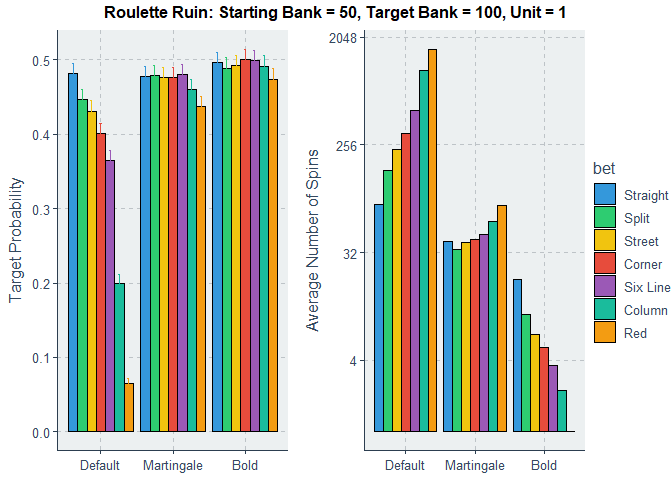
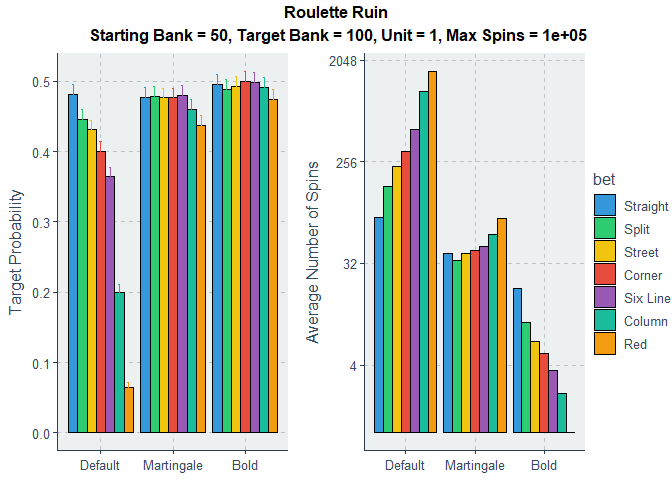
graph changes

diff --git a/roulette_strategy.md b/roulette_strategy.md
@@ -3,7 +3,7 @@ Roulette Strategy
 Thanos Livanis
 13/12/2023
 
-**Analysis & simulation of *Gambler’s Ruin* problem in Roulette under
+**Analysis & simulation of *Gambler’s Ruin* problem in roulette under
 different betting strategies & circumstances**
 
 -   [Analysis](#analysis)
@@ -60,9 +60,8 @@ spin_wheel <- function(roulette, bet, nspins){
   
   spins = rbinom(nspins, 1, prop)
   
-  list(PnL = sum(ifelse(spins, payout, -1))) %>% bind_cols(params)
+  list(Yield = sum(ifelse(spins, payout, -1))/nspins) %>% bind_cols(params)
 }
-
 
 returns <- expand.grid(roulette = c("European", "American"),
                        bet = unique(roulette_table$bet),
@@ -74,21 +73,14 @@ returns <- expand.grid(roulette = c("European", "American"),
 ``` r
 ggthemr("flat")
 
-pl_density <- returns %>% filter(roulette == "European") %>%
-  ggplot(aes(x = PnL, color = bet)) +
-  geom_density(adjust = 2, linewidth = 1) + 
-  theme(legend.position="none") +
-  coord_cartesian(xlim = c(-500, 500)) 
-
-pl_box <- returns %>% filter(roulette == "European") %>%
-  ggplot(aes(x = bet, y = PnL, fill = bet)) +
+returns %>% filter(roulette == "European") %>%
+  ggplot(aes(x = bet, y = Yield, fill = bet)) +
   geom_boxplot() +
-  theme(axis.title.x=element_blank(), axis.text.x = element_text(angle = 90, vjust = 0.5, hjust = 1), 
-        legend.position="none") 
-
-pl <- ggarrange(pl_box, pl_density, nrow = 2, common.legend = F)
-annotate_figure(pl, top = text_grob("Profit & Loss distribution after 1000 European Roulette Spins", 
-                                    face = "bold", size = 12))
+  scale_y_continuous(breaks = seq(-0.5, 0.5, 0.1), labels = scales::percent_format(accuracy=1)) +
+  theme(axis.title.x = element_blank(), 
+        axis.text.x = element_text(angle = 90, vjust = 0.5, hjust = 1,size = 12), 
+        legend.position="none") +
+  labs(title = "Yield distribution ~ 1000 European Roulette Spins")
 ```
 
 ![](roulette_strategy_files/figure-gfm/pnl_distribution-1.png)<!-- -->
@@ -101,8 +93,7 @@ $M > \\frac{N}{\\text{payout} + 1}$
 Profit Probability = *P*(*X*≥⌈*M*⌉) = pbinom(⌊*M*⌋,Spins,*p*,lower.tail = F)
 
 It is easier to make a profit from Straight & Split bets than betting on
-Red, due to higher variance. There is more inherent randomness
-associated with unlikely events.
+Red, due to higher variance.
 
 ``` r
 prop_profit <- function(roulette, bet, nspins) {
@@ -411,7 +402,7 @@ of trials; otherwise, the law of large numbers leads us to ruin. The
 best strategy in this case is the bold strategy.
 
 ``` r
-params_ruin <- expand.grid(roulette = c("European"),
+params_ruin <- expand.grid(roulette = "European",
                            bet = unique(roulette_table$bet),
                            starting_bank = 50,
                            target_bank = 100, 
@@ -442,12 +433,11 @@ pl_spins <- sim_ruin %>%
 
 
 pl <- ggarrange(pl_prop, pl_spins, ncol = 2, common.legend = T, legend = "right")
-annotate_figure(pl, top = text_grob(paste("Roulette Ruin:", 
-                                          paste(c("Starting Bank", "Target Bank", "Unit"), "=",
-                                          c(unique(sim_ruin$starting_bank), 
-                                            unique(sim_ruin$target_bank), 
-                                            unique(sim_ruin$unit_bet)),
-                                          collapse = ", ")), 
+annotate_figure(pl, top = text_grob(paste("Roulette Ruin\n", 
+                                          paste(c("Starting Bank", "Target Bank", "Unit", "Max Spins"), "=",
+                                                c(unique(sim_ruin$starting_bank), unique(sim_ruin$target_bank), 
+                                                  unique(sim_ruin$unit_bet), unique(sim_ruin$max_spins)),
+                                                                  collapse = ", ")), 
                                     face = "bold", size = 12))
 ```
 
@@ -460,7 +450,7 @@ will try at most 200 spins under the 3 strategies. He aims for $3000 and
 unit bet is $5.
 
 ``` r
-params_real <- expand.grid(roulette = c("European"),
+params_real <- expand.grid(roulette = "European",
                            bet = unique(roulette_table$bet),
                            starting_bank = 2000,
                            target_bank = 3000, 
@@ -477,17 +467,17 @@ ggthemr("flat")
 sim_real %>% melt(measure.vars = c("p_profit", "p_target", "p_ruin")) %>%
   mutate(se = ifelse(variable == "p_profit", p_profit_se, ifelse(variable == "p_target", p_target_se, p_ruin_se))) %>%
   ggplot(aes(x = strategy, y = value, fill = bet)) +
-  geom_bar(stat="identity", position = "dodge", color = "black") +
+  geom_bar(stat = "identity", position = "dodge", color = "black") +
   geom_errorbar(aes(ymin = value - 1.96*se, ymax = value + 1.96*se, color = bet),  
                 width = .2, position = position_dodge(.9), show.legend = F) + 
-  facet_grid(variable ~.) +
-  labs(y = "Probability", title = paste("Casino Night:", 
-                                        paste(c("Starting Bank", "Target Bank", "Unit Bet"), "=",
-                                              c(unique(sim_real$starting_bank), 
-                                                unique(sim_real$target_bank), 
-                                                unique(sim_real$unit_bet)), 
-                                              collapse = ", "))) +
-  theme(axis.title.x=element_blank(), plot.title = element_text(size = 12, face = "bold", hjust = 0.5)) 
+    facet_grid(variable ~.) +
+  labs(y = "Probability", title = "Casino Night", 
+       subtitle = paste(c("Starting Bank", "Target Bank", "Unit Bet", "Max Spins"), "=",
+                        c(unique(sim_real$starting_bank), unique(sim_real$target_bank), 
+                          unique(sim_real$unit_bet), unique(sim_real$max_spins)), 
+                        collapse = ", ")) +
+  theme(axis.title.x=element_blank(), plot.title = element_text(size = 12, face = "bold", hjust = 0.5), 
+        plot.subtitle = element_text(size = 12, face = "bold", hjust = 0.5))  
 ```
 
 ![](roulette_strategy_files/figure-gfm/casino_night-1.png)<!-- -->
